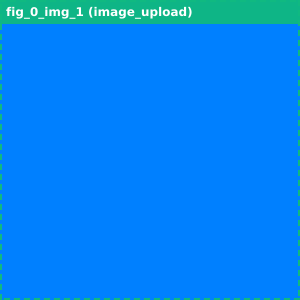
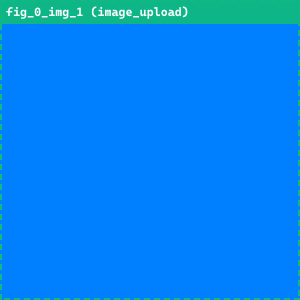
feat(auth): prompt teacher to check email for confirmation link on signup instead of auto-login

Changed region(s): [[0.0, 0.0, 0.66, 0.09]]

diff --git a/client/src/components/Common/AccessGateModal.jsx b/client/src/components/Common/AccessGateModal.jsx
@@ -1,5 +1,5 @@
 import React, { useState } from 'react';
-import { Lock, KeyRound, ArrowRight, ShieldAlert, User, Mail, ShieldCheck } from 'lucide-react';
+import { Lock, KeyRound, ArrowRight, ShieldAlert, User, Mail, ShieldCheck, CheckCircle2 } from 'lucide-react';
 import { loginTeacher, signupTeacher } from '../../services/apiService';
 
 export default function AccessGateModal({ onAuthenticated }) {
@@ -9,12 +9,14 @@ export default function AccessGateModal({ onAuthenticated }) {
   const [fullName, setFullName] = useState('');
   const [accessCode, setAccessCode] = useState('');
   const [errorMsg, setErrorMsg] = useState('');
+  const [successMsg, setSuccessMsg] = useState('');
   const [isSubmitting, setIsSubmitting] = useState(false);
 
   const handleSubmit = async (e) => {
     e.preventDefault();
     setIsSubmitting(true);
     setErrorMsg('');
+    setSuccessMsg('');
 
     try {
       if (authMode === 'signup') {
@@ -23,8 +25,14 @@ export default function AccessGateModal({ onAuthenticated }) {
           setIsSubmitting(false);
           return;
         }
-        await signupTeacher(email, password, fullName, accessCode);
-        onAuthenticated();
+        const res = await signupTeacher(email, password, fullName, accessCode);
+        if (res.token) {
+          onAuthenticated();
+        } else {
+          setSuccessMsg(res.message || 'Account created! Please check your email for a confirmation link before logging in.');
+          setAuthMode('login');
+          setPassword('');
+        }
       } else {
         if (!email || !password) return;
         await loginTeacher(email, password);
@@ -64,19 +72,27 @@ export default function AccessGateModal({ onAuthenticated }) {
         <div className="flex items-center justify-center gap-1 bg-[#efe8dc] p-1 rounded-xl text-xs font-semibold text-[#5c5346]">
           <button
             type="button"
-            onClick={() => { setAuthMode('login'); setErrorMsg(''); }}
+            onClick={() => { setAuthMode('login'); setErrorMsg(''); setSuccessMsg(''); }}
             className={`flex-1 py-1.5 rounded-lg transition-all ${authMode === 'login' ? 'bg-white shadow-xs text-[#1c1b18]' : 'hover:text-[#1c1b18]'}`}
           >
             Login
           </button>
           <button
             type="button"
-            onClick={() => { setAuthMode('signup'); setErrorMsg(''); }}
+            onClick={() => { setAuthMode('signup'); setErrorMsg(''); setSuccessMsg(''); }}
             className={`flex-1 py-1.5 rounded-lg transition-all ${authMode === 'signup' ? 'bg-white shadow-xs text-[#1c1b18]' : 'hover:text-[#1c1b18]'}`}
           >
             Sign Up
           </button>
         </div>
+
+        {/* Success Alert */}
+        {successMsg && (
+          <div className="p-3.5 rounded-xl bg-emerald-50 border border-emerald-200 text-emerald-800 text-xs flex items-center gap-2 font-sans font-medium">
+            <CheckCircle2 className="w-4 h-4 shrink-0 text-emerald-600" />
+            <span>{successMsg}</span>
+          </div>
+        )}
 
         {/* Error Alert */}
         {errorMsg && (

diff --git a/server/routes/auth.js b/server/routes/auth.js
@@ -50,11 +50,17 @@ router.post('/signup', async (req, res) => {
       });
     }
 
+    const requiresConfirmation = !data.session;
+
     return res.json({
       success: true,
+      message: requiresConfirmation
+        ? 'Account created! Please check your email for a confirmation link before logging in.'
+        : 'Account created successfully.',
+      requiresConfirmation,
       user: data.user,
       session: data.session,
-      token: data.session?.access_token || 'dev-fallback-token',
+      token: data.session?.access_token || null,
     });
   } catch (err) {
     console.error('[Auth Signup Error]:', err.message || err);

diff --git a/client/src/services/apiService.js b/client/src/services/apiService.js
@@ -60,8 +60,8 @@ export async function signupTeacher(email, password, fullName, accessCode) {
     throw new Error(errorMsg);
   }
 
-  if (data.token || data.session?.access_token) {
-    localStorage.setItem('teacher_auth_token', data.token || data.session?.access_token);
+  if (data.token) {
+    localStorage.setItem('teacher_auth_token', data.token);
   }
   return data;
 }
